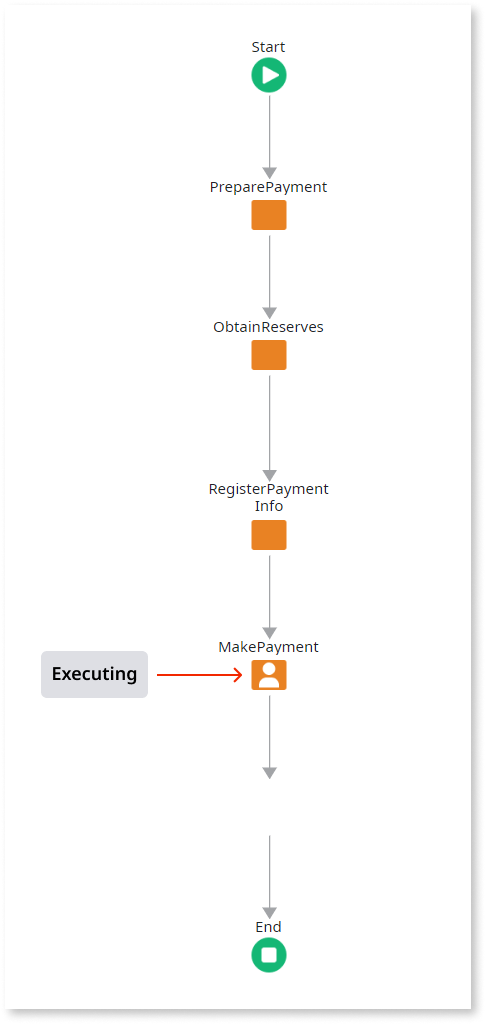
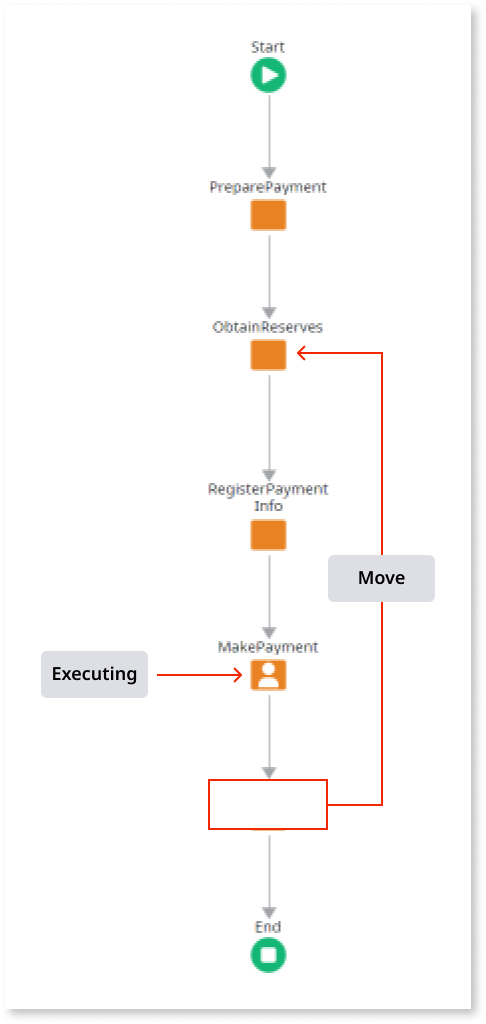
Added new screenshot

diff --git a/src/develop/processes/process-upgrade/impact-move-activities.md b/src/develop/processes/process-upgrade/impact-move-activities.md
@@ -6,7 +6,7 @@ app_type: traditional web apps, mobile apps, reactive web apps
 
 # Impact of Moving Activities in Process Flows
 
-When you publish a module containing modified [process flows](../process-flow/process-flow-editor.md), all of the executing process instances that were based on the former process flows are automatically upgraded by OutSystems. This topic lists some examples of the impact of moved activities on executing process instances.
+When you publish a module containing modified [process flows](../process-flow/process-flow-editor.md), all the executing process instances that were based on the former process flows are automatically upgraded by OutSystems. This topic lists some examples of the impact of moved activities on executing process instances.
 
 
 ## Process Instance is Executing Before the Moved Activity
@@ -15,7 +15,7 @@ In this case the execution of the process instance has not executed the moved ac
 
 In case the process instance is suspended it has to be analyzed in Service Center to decide whether it can continue or should be stopped.
 
-![](images/process-upgrade-move-future-to-past.png)
+![(images/process-upgrade-move-future-to-past.png)
 
 
 ## Process Instance is Executing After the Moved Activity (Case 1)
